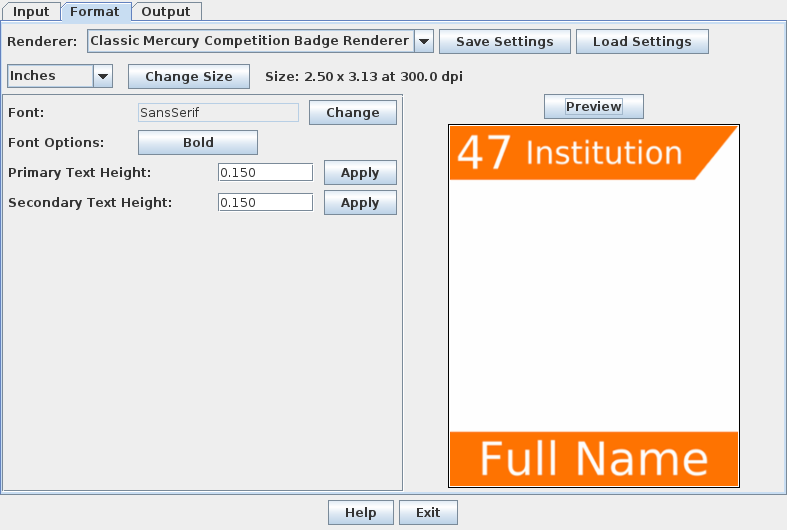
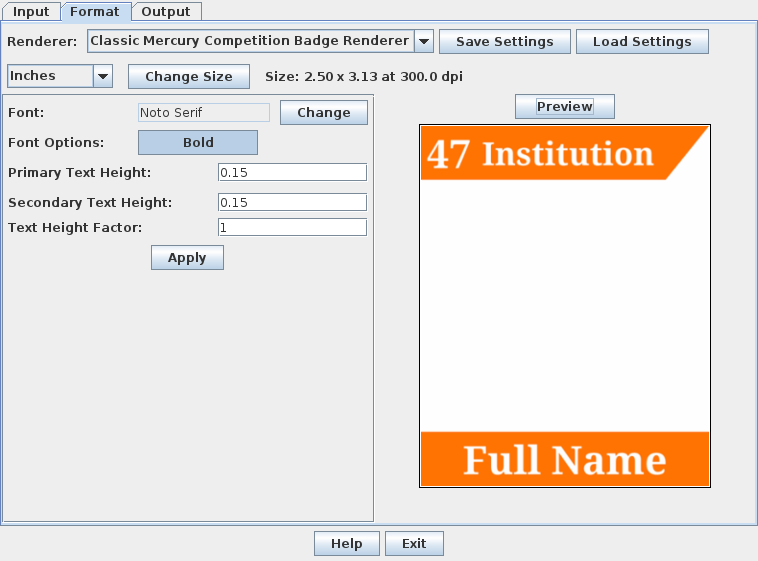
0.2 release

Changed region(s): [[0.0, 0.0, 1.0, 0.483], [0.0, 0.1509, 1.0, 0.9962]]

diff --git a/src/org/osumercury/badgemaker/renderers/MercuryCertificateRenderer.java b/src/org/osumercury/badgemaker/renderers/MercuryCertificateRenderer.java
@@ -22,8 +22,8 @@ import java.io.IOException;
 import javax.imageio.ImageIO;
 import javax.swing.Box;
 import javax.swing.BoxLayout;
+import javax.swing.JButton;
 import javax.swing.JPanel;
-import javax.swing.JScrollPane;
 import org.osumercury.badgemaker.*;
 import org.osumercury.badgemaker.gui.GUI;
 import org.osumercury.badgemaker.gui.MainWindow;
@@ -545,205 +545,195 @@ public class MercuryCertificateRenderer extends Renderer {
         pane.add(paneFont);
         pane.add(Box.createRigidArea(new Dimension(5, 5)));
         
-        paneCertification = new TextInputPane("Certification Preamble: ", 200,
-                                              "Apply");
+        paneButtonApply1 = new JPanel();
+        btnApply1 = new JButton("Apply");
+        btnApply1.addActionListener((e) -> { applySettings(); } );
+        paneButtonApply1.add(btnApply1);
+        pane.add(paneButtonApply1);
+        pane.add(Box.createRigidArea(new Dimension(5, 5)));
+        
+        paneCertification = new TextInputPane("Certification Preamble: ", 200);
         paneCertification.setText(textCertification);
         paneCertification.setMaximumSize(new Dimension(Short.MAX_VALUE, 100));
-        paneCertification.addAction(0, e ->  { applySettings(); });
         pane.add(paneCertification);
         pane.add(Box.createRigidArea(new Dimension(5, 5)));
         
-        paneParticipation = new TextInputPane("Participation Preamble: ", 200,
-                                              "Apply");
+        paneParticipation = new TextInputPane("Participation Preamble: ", 200);
         paneParticipation.setText(textParticipation);
         paneParticipation.setMaximumSize(new Dimension(Short.MAX_VALUE, 100));
-        paneParticipation.addAction(0, e ->  { applySettings(); });
         pane.add(paneParticipation);
         pane.add(Box.createRigidArea(new Dimension(5, 5)));
         
-        paneCompetitionTitle = new TextInputPane("Competition Title: ", 200, 
-                                                 "Apply");
+        paneCompetitionTitle = new TextInputPane("Competition Title: ", 200);
         paneCompetitionTitle.setText(textCompetitionTitle);
         paneCompetitionTitle.setMaximumSize(new Dimension(Short.MAX_VALUE, 100));
-        paneCompetitionTitle.addAction(0, e ->  { applySettings(); });
         pane.add(paneCompetitionTitle);
         pane.add(Box.createRigidArea(new Dimension(5, 5)));
         
-        paneHostTitle = new TextInputPane("Competition Host Title: ", 200, 
-                                          "Apply");
+        paneHostTitle = new TextInputPane("Competition Host Title: ", 200);
         paneHostTitle.setText(textHostTitle);
         paneHostTitle.setMaximumSize(new Dimension(Short.MAX_VALUE, 100));
-        paneHostTitle.addAction(0, e ->  { applySettings(); });
         pane.add(paneHostTitle);
         pane.add(Box.createRigidArea(new Dimension(5, 5)));
         
         paneHostInstitution = new TextInputPane("Competition Host Institution: ",
-                                                200, "Apply");
+                                                200);
         paneHostInstitution.setText(textHostInstitution);
         paneHostInstitution.setMaximumSize(new Dimension(Short.MAX_VALUE, 100));
-        paneHostInstitution.addAction(0, e ->  { applySettings(); });
         pane.add(paneHostInstitution);
         pane.add(Box.createRigidArea(new Dimension(5, 5)));
         
-        paneDateLocation = new TextInputPane("Date and Location: ", 200, 
-                                             "Apply");
+        paneDateLocation = new TextInputPane("Date and Location: ", 200);
         paneDateLocation.setText(textDateLocation);
         paneDateLocation.setMaximumSize(new Dimension(Short.MAX_VALUE, 100));
-        paneDateLocation.addAction(0, e ->  { applySettings(); });
         pane.add(paneDateLocation);
         pane.add(Box.createRigidArea(new Dimension(5, 5)));
         
-        paneAdvisorName = new TextInputPane("Advisor Name: ", 200, "Apply");
+        paneAdvisorName = new TextInputPane("Advisor Name: ", 200);
         paneAdvisorName.setText(textAdvisorName);
         paneAdvisorName.setMaximumSize(new Dimension(Short.MAX_VALUE, 100));
-        paneAdvisorName.addAction(0, e ->  { applySettings(); });
         pane.add(paneAdvisorName);
         pane.add(Box.createRigidArea(new Dimension(5, 5)));
         
-        paneAdvisorTitle = new TextInputPane("Advisor Title: ", 200, "Apply");
+        paneAdvisorTitle = new TextInputPane("Advisor Title: ", 200);
         paneAdvisorTitle.setText(textAdvisorTitle);
         paneAdvisorTitle.setMaximumSize(new Dimension(Short.MAX_VALUE, 100));
-        paneAdvisorTitle.addAction(0, e ->  { applySettings(); });
         pane.add(paneAdvisorTitle);
         pane.add(Box.createRigidArea(new Dimension(5, 5)));
         
-        panePresidentName = new TextInputPane("President Name: ", 200, "Apply");
+        panePresidentName = new TextInputPane("President Name: ", 200);
         panePresidentName.setText(textPresidentName);
         panePresidentName.setMaximumSize(new Dimension(Short.MAX_VALUE, 100));
-        panePresidentName.addAction(0, e ->  { applySettings(); });
         pane.add(panePresidentName);
         pane.add(Box.createRigidArea(new Dimension(5, 5)));
         
-        panePresidentTitle = new TextInputPane("President Title: ", 200, 
-                                               "Apply");
+        panePresidentTitle = new TextInputPane("President Title: ", 200);
         panePresidentTitle.setText(textPresidentTitle);
         panePresidentTitle.setMaximumSize(new Dimension(Short.MAX_VALUE, 100));
-        panePresidentTitle.addAction(0, e ->  { applySettings(); });
         pane.add(panePresidentTitle);
         pane.add(Box.createRigidArea(new Dimension(5, 5)));
         
         panePathToLogo = new TextInputPane("Path to Logo Image: ", 200, 
-                                           "Browse", "Apply");
+                                           "Browse");
         panePathToLogo.setText(pathToLogo);
         panePathToLogo.setMaximumSize(new Dimension(Short.MAX_VALUE, 100));
         panePathToLogo.addAction(0, e ->  {
             String path = GUI.browseForFile("Select Image File");
             if(path != null) {
                 panePathToLogo.setText(path);
+                applySettings();
             }
         });
-        panePathToLogo.addAction(1, e ->  { applySettings(); });
         pane.add(panePathToLogo);
         pane.add(Box.createRigidArea(new Dimension(5, 5)));
         
-        panePathToBackground = new TextInputPane("Path to Backgorund Image: ",  
-                                                 200, "Browse", "Apply");
+        panePathToBackground = new TextInputPane("Path to Background Image: ",  
+                                                 200, "Browse");
         panePathToBackground.setText(pathToBackground);
         panePathToBackground.setMaximumSize(new Dimension(Short.MAX_VALUE, 100));
         panePathToBackground.addAction(0, e ->  {
             String path = GUI.browseForFile("Select Image File");
             if(path != null) {
                 panePathToBackground.setText(path);
+                applySettings();
             }
         });
-        
-        panePathToBackground.addAction(1, e ->  { applySettings(); });
         pane.add(panePathToBackground);
         pane.add(Box.createRigidArea(new Dimension(5, 5)));
         
+        paneButtonApply2 = new JPanel();
+        btnApply2 = new JButton("Apply");
+        btnApply2.addActionListener((e) -> { applySettings(); } );
+        paneButtonApply2.add(btnApply2);
+        pane.add(paneButtonApply2);
+        pane.add(Box.createRigidArea(new Dimension(5, 5)));
+        
         paneTextBackgroundColor = new TextInputPane("Name Background Color: ",  
-                                                 200, "Apply");
+                                                 200);
         paneTextBackgroundColor.setText(String.format("%06x", 
                 textBackgroundColor.getRGB() & 0xffffffL));
         paneTextBackgroundColor.setMaximumSize(new Dimension(Short.MAX_VALUE, 100));
-        paneTextBackgroundColor.addAction(0, e ->  { applySettings(); });
         pane.add(paneTextBackgroundColor);
         pane.add(Box.createRigidArea(new Dimension(5, 5)));
 
         paneMainTextHeight = new
-                TextInputPane("Main Text Height: ", 200, "Apply");
+                TextInputPane("Main Text Height: ", 200);
         paneMainTextHeight.setText(String.format("%.3f", mainTextHeight));
         paneMainTextHeight.setMaximumSize(new Dimension(Short.MAX_VALUE, 100));
-        paneMainTextHeight.addAction(0, e ->  { applySettings(); });
         pane.add(paneMainTextHeight);
         pane.add(Box.createRigidArea(new Dimension(5, 5)));
         
-        paneNameHeight = new TextInputPane("Team Name Height: ", 200, "Apply");
+        paneNameHeight = new TextInputPane("Team Name Height: ", 200);
         paneNameHeight.setText(String.format("%.3f", nameHeight));
         paneNameHeight.setMaximumSize(new Dimension(Short.MAX_VALUE, 100));
-        paneNameHeight.addAction(0, e ->  {});
         pane.add(paneNameHeight);
         pane.add(Box.createRigidArea(new Dimension(5, 5)));
         
         paneInstitutionHeight = new TextInputPane("Team Institution Height: ", 
-                                                  200, "Apply");
+                                                  200);
         paneInstitutionHeight.setText(String.format("%.3f", institutionHeight));
         paneInstitutionHeight.setMaximumSize(new Dimension(Short.MAX_VALUE, 100));
-        paneInstitutionHeight.addAction(0, e ->  { applySettings(); });
         pane.add(paneInstitutionHeight);
         pane.add(Box.createRigidArea(new Dimension(5, 5)));
         
         paneCompetitionTitleHeight = new
-                TextInputPane("Competition Title Height: ", 200, "Apply");
+                TextInputPane("Competition Title Height: ", 200);
         paneCompetitionTitleHeight.setText(String.format("%.3f", competitionTitleHeight));
         paneCompetitionTitleHeight.setMaximumSize(new Dimension(Short.MAX_VALUE, 100));
-        paneCompetitionTitleHeight.addAction(0, e ->  { applySettings(); });
         pane.add(paneCompetitionTitleHeight);
         pane.add(Box.createRigidArea(new Dimension(5, 5)));
         
         paneDateLocationHeight = new
-                TextInputPane("Date and Location Height: ", 200, "Apply");
+                TextInputPane("Date and Location Height: ", 200);
         paneDateLocationHeight.setText(String.format("%.3f", dateLocationHeight));
         paneDateLocationHeight.setMaximumSize(new Dimension(Short.MAX_VALUE, 100));
-        paneDateLocationHeight.addAction(0, e ->  { applySettings(); });
         pane.add(paneDateLocationHeight);
         pane.add(Box.createRigidArea(new Dimension(5, 5)));
         
-        paneLogoHeight = new TextInputPane("Competition Logo Height: ", 200,
-                                           "Apply");
+        paneLogoHeight = new TextInputPane("Competition Logo Height: ", 200);
         paneLogoHeight.setText(String.format("%.3f", logoHeight));
         paneLogoHeight.setMaximumSize(new Dimension(Short.MAX_VALUE, 100));
-        paneLogoHeight.addAction(0, e ->  { applySettings(); });
         pane.add(paneLogoHeight);
         pane.add(Box.createRigidArea(new Dimension(5, 5)));
         
         paneBackgroundHeight = new TextInputPane("Team Background Height: ",
-                                                 200, "Apply");
+                                                 200);
         paneBackgroundHeight.setText(String.format("%.3f", backgroundHeight));
         paneBackgroundHeight.setMaximumSize(new Dimension(Short.MAX_VALUE, 100));
-        paneBackgroundHeight.addAction(0, e ->  { applySettings(); });
         pane.add(paneBackgroundHeight);
         pane.add(Box.createRigidArea(new Dimension(5, 5)));
         
-        paneMajorSpacing = new TextInputPane("Major Spacing: ", 200, "Apply");
+        paneMajorSpacing = new TextInputPane("Major Spacing: ", 200);
         paneMajorSpacing.setText(String.format("%.3f", majorSpacing));
         paneMajorSpacing.setMaximumSize(new Dimension(Short.MAX_VALUE, 100));
-        paneMajorSpacing.addAction(0, e ->  { applySettings(); });
         pane.add(paneMajorSpacing);
         pane.add(Box.createRigidArea(new Dimension(5, 5)));
         
         paneMinorSpacing = new
-                TextInputPane("Minor Spacing: ", 200, "Apply");
+                TextInputPane("Minor Spacing: ", 200);
         paneMinorSpacing.setText(String.format("%.3f", minorSpacing));
         paneMinorSpacing.setMaximumSize(new Dimension(Short.MAX_VALUE, 100));
-        paneMinorSpacing.addAction(0, e ->  { applySettings(); });
         pane.add(paneMinorSpacing);
         pane.add(Box.createRigidArea(new Dimension(5, 5)));
         
-        paneTopPadding = new TextInputPane("Top Padding: ", 200, "Apply");
+        paneTopPadding = new TextInputPane("Top Padding: ", 200);
         paneTopPadding.setText(String.format("%.3f", topPadding));
         paneTopPadding.setMaximumSize(new Dimension(Short.MAX_VALUE, 100));
-        paneTopPadding.addAction(0, e ->  { applySettings(); });
         pane.add(paneTopPadding);
         pane.add(Box.createRigidArea(new Dimension(5, 5)));
         
-        paneSignaturesPosition = new TextInputPane("Signatures Position: ", 200,
-                                                   "Apply");
+        paneSignaturesPosition = new TextInputPane("Signatures Position: ", 200);
         paneSignaturesPosition.setText(String.format("%.3f", signaturesPosition));
         paneSignaturesPosition.setMaximumSize(new Dimension(Short.MAX_VALUE, 100));
-        paneSignaturesPosition.addAction(0, e ->  { applySettings(); });
         pane.add(paneSignaturesPosition);
-        pane.add(Box.createRigidArea(new Dimension(5, 5)));                
+        pane.add(Box.createRigidArea(new Dimension(5, 5)));
+        
+        paneButtonApply3 = new JPanel();
+        btnApply3 = new JButton("Apply");
+        btnApply3.addActionListener((e) -> { applySettings(); } );
+        paneButtonApply3.add(btnApply3);
+        pane.add(paneButtonApply3);
+        pane.add(Box.createRigidArea(new Dimension(5, 5)));
         
         min = new Dimension(5, 5);
         pref = new Dimension(5, 5);
@@ -754,6 +744,12 @@ public class MercuryCertificateRenderer extends Renderer {
         return pane;
     }
     
+    private JPanel paneButtonApply1;
+    private JPanel paneButtonApply2;
+    private JPanel paneButtonApply3;
+    private JButton btnApply1;
+    private JButton btnApply2;
+    private JButton btnApply3;
     private TextInputPane paneCertification;
     private TextInputPane paneParticipation;
     private TextInputPane paneCompetitionTitle;

diff --git a/src/org/osumercury/badgemaker/renderers/ClassicMercuryBadgeRenderer.java b/src/org/osumercury/badgemaker/renderers/ClassicMercuryBadgeRenderer.java
@@ -24,6 +24,7 @@ import java.awt.RenderingHints;
 import java.awt.image.BufferedImage;
 import javax.swing.Box;
 import javax.swing.BoxLayout;
+import javax.swing.JButton;
 import javax.swing.JPanel;
 import org.osumercury.badgemaker.*;
 import org.osumercury.badgemaker.gui.MainWindow;
@@ -55,8 +56,8 @@ public class ClassicMercuryBadgeRenderer extends Renderer {
         addProperty("secondary-height", Property.FLOAT, String.format("%.3f", secondaryHeight),
                     "Secondary text line height in proportion to badge height");
         addProperty("text-height-factor", Property.FLOAT, String.format("%.3f", textHeightFactor),
-                    "Line height to text ratio (smaller for bigger text, 1.0 " +
-                    "for equal heights)");
+                    "Text height to area ratio (larger for bigger text, 1.0 " +
+                    "for fit)");
         addProperty("font-bold", Property.STRING, "no",
                     "Make text bold {\"yes\", \"no\"}");
     }
@@ -220,7 +221,7 @@ public class ClassicMercuryBadgeRenderer extends Renderer {
         gg.setFont(f);
         gg.drawString(badge.primaryText, 0, fm.getHeight()-fm.getDescent());
         gg.dispose();
-        textH = (int)(primaryHeight * d.height);
+        textH = (int)(textHeightFactor * primaryHeight * d.height);
         textW = (int)((float)textH / imgPrimaryText.getHeight() *
                       imgPrimaryText.getWidth());
         limitW = d.width - (int)(0.08f * d.width);
@@ -245,7 +246,7 @@ public class ClassicMercuryBadgeRenderer extends Renderer {
             gg.setFont(f);
             gg.drawString(badge.secondaryText, 0, fm.getHeight()-fm.getDescent());
             gg.dispose();
-            textH = (int)(secondaryHeight * d.height);
+            textH = (int)(textHeightFactor * secondaryHeight * d.height);
             textW = (int)((float)textH / imgSecondaryText.getHeight() *
                           imgSecondaryText.getWidth());
             limitW = d.width - (imgNumber != null ? numberW : 0)
@@ -303,20 +304,29 @@ public class ClassicMercuryBadgeRenderer extends Renderer {
         pane.add(paneOptions);
         pane.add(Box.createRigidArea(new Dimension(5, 5)));
         
-        panePrimaryHeight = new TextInputPane("Primary Text Height: ", 200,
-                                              "Apply");
+        panePrimaryHeight = new TextInputPane("Primary Text Height: ", 200);
         panePrimaryHeight.setText(String.format("%.3f", primaryHeight));
         panePrimaryHeight.setMaximumSize(new Dimension(Short.MAX_VALUE, 100));
-        panePrimaryHeight.addAction(0, e ->  { applySettings(); });
         pane.add(panePrimaryHeight);
         pane.add(Box.createRigidArea(new Dimension(5, 5)));
         
-        paneSecondaryHeight = new TextInputPane("Secondary Text Height: ", 200,
-                                                "Apply");
+        paneSecondaryHeight = new TextInputPane("Secondary Text Height: ", 200);
         paneSecondaryHeight.setText(String.format("%.3f", secondaryHeight));
         paneSecondaryHeight.setMaximumSize(new Dimension(Short.MAX_VALUE, 100));
-        paneSecondaryHeight.addAction(0, e ->  { applySettings(); });
         pane.add(paneSecondaryHeight);
+        pane.add(Box.createRigidArea(new Dimension(5, 5)));
+        
+        paneTextHeightFactor = new TextInputPane("Text Height Factor: ", 200);
+        paneTextHeightFactor.setText(String.format("%.3f", textHeightFactor));
+        paneTextHeightFactor.setMaximumSize(new Dimension(Short.MAX_VALUE, 100));
+        pane.add(paneTextHeightFactor);
+        pane.add(Box.createRigidArea(new Dimension(5, 5)));
+        
+        paneButtonApply = new JPanel();
+        btnApply = new JButton("Apply");
+        btnApply.addActionListener((e) -> { applySettings(); } );
+        paneButtonApply.add(btnApply);
+        pane.add(paneButtonApply);
         
         min = new Dimension(5, 5);
         pref = new Dimension(5, 5);
@@ -326,8 +336,11 @@ public class ClassicMercuryBadgeRenderer extends Renderer {
         return pane;
     }
     
+    private JPanel paneButtonApply;
+    private JButton btnApply;
     private TextInputPane panePrimaryHeight;
     private TextInputPane paneSecondaryHeight;
+    private TextInputPane paneTextHeightFactor;
     
     private void applySettings() {
         try {
@@ -344,6 +357,14 @@ public class ClassicMercuryBadgeRenderer extends Renderer {
             secondaryHeight = newSecondaryHeight;
         } catch(NumberFormatException nfe) {
             paneSecondaryHeight.setText(String.format("%.3f", secondaryHeight));
+        }
+        
+        try {
+            float newTextHeightFactor = Float.parseFloat(
+                    paneTextHeightFactor.getText());
+            textHeightFactor = newTextHeightFactor;
+        } catch(NumberFormatException nfe) {
+            paneTextHeightFactor.setText(String.format("%.3f", textHeightFactor));
         }
     }
 }
